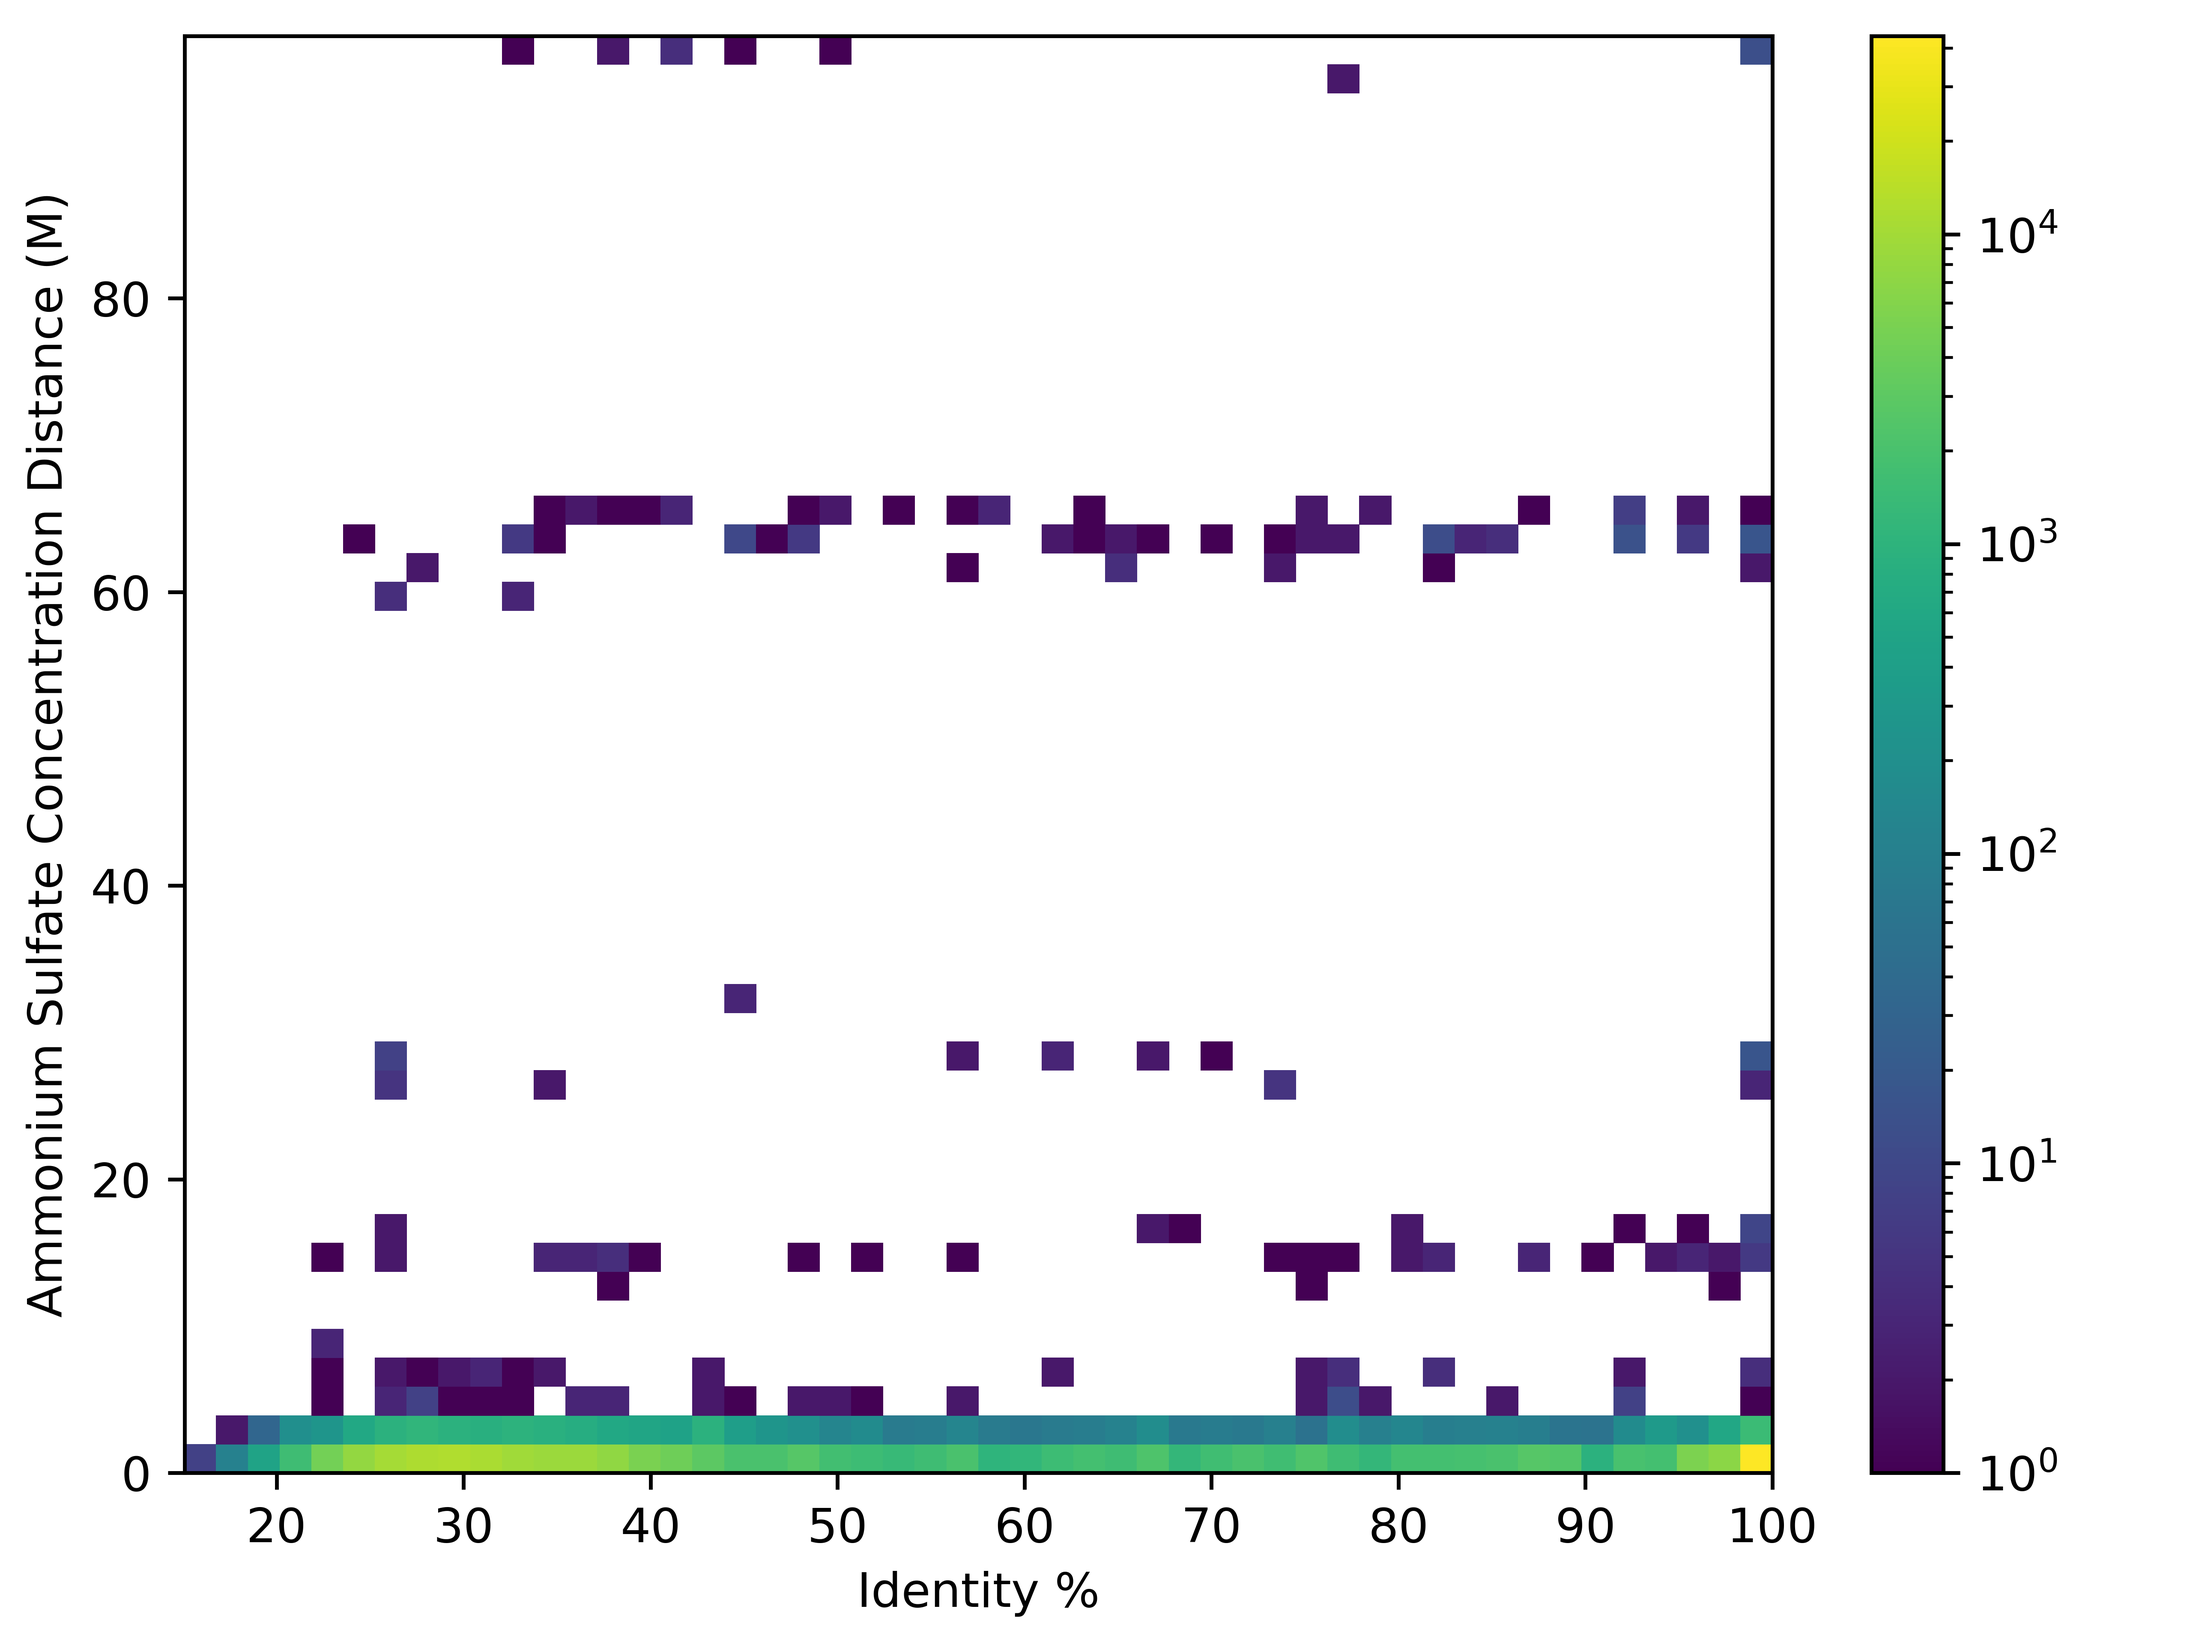
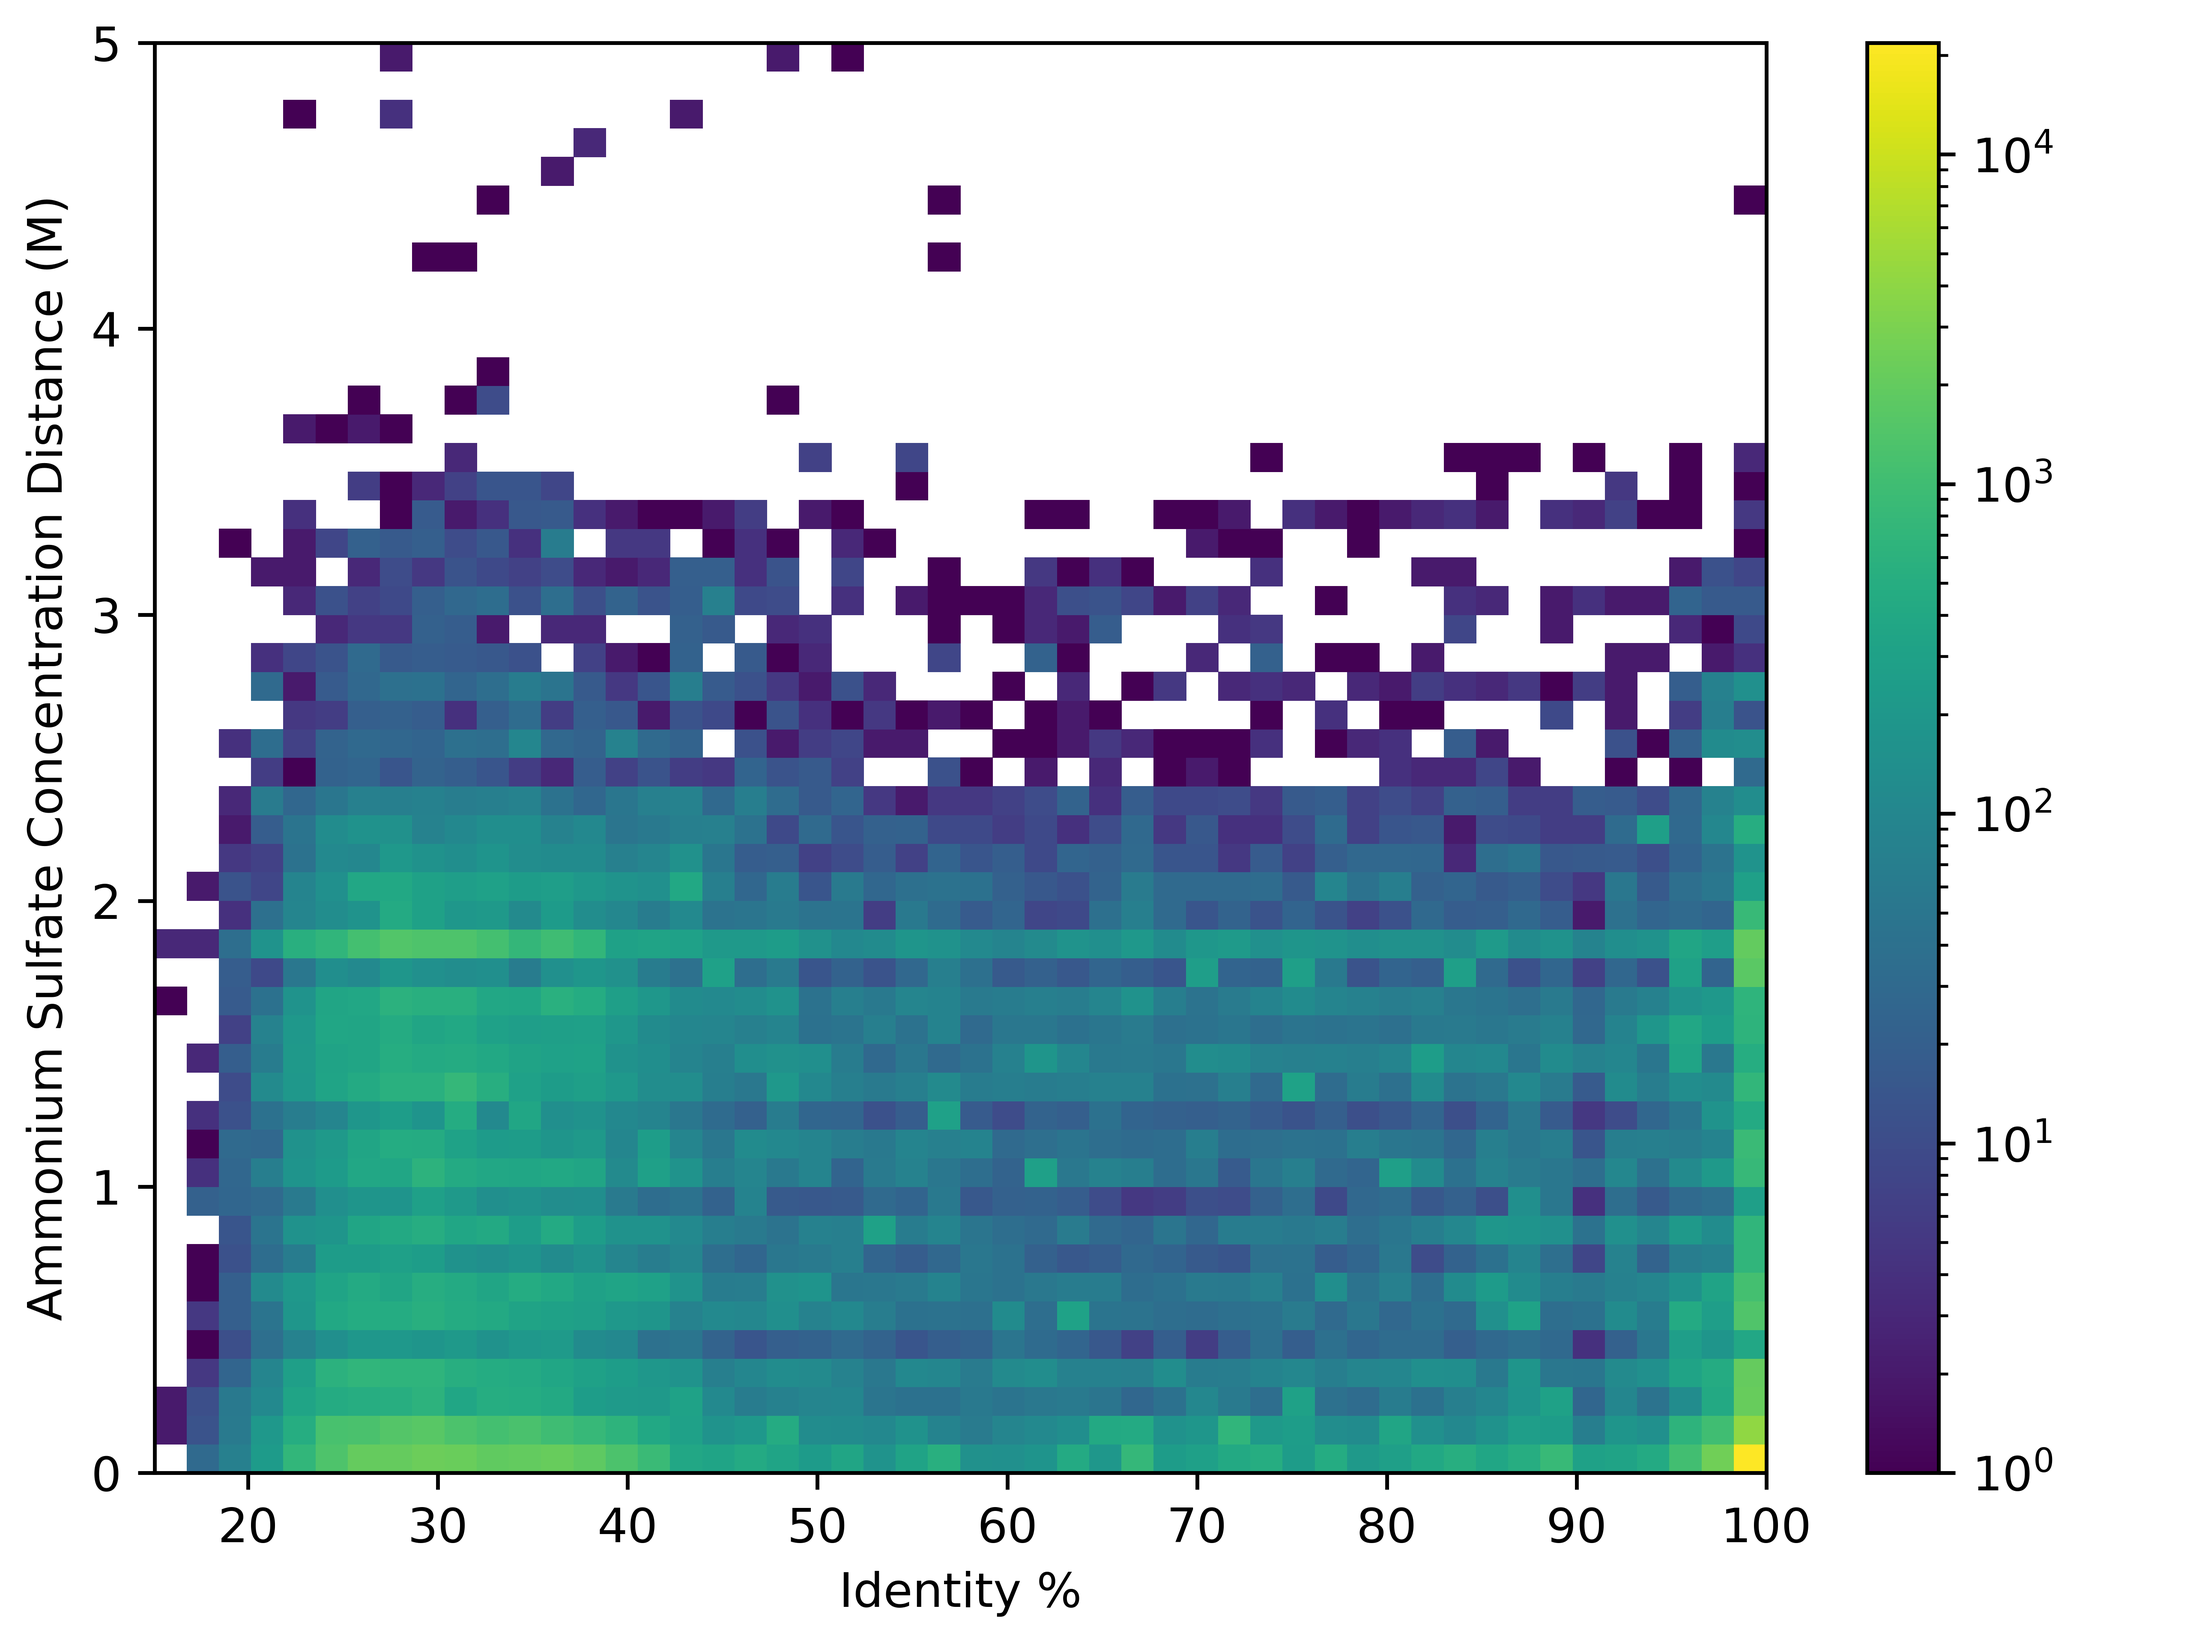
More stuff

diff --git a/plots.py b/plots.py
@@ -6,8 +6,11 @@ C6results = np.load("db/c6_results.npy")
 PEGresults = np.load("db/peg_results.npy")
 NH4results = np.load("db/nh4_results.npy")
 
-C6filter = np.where((C6results[:,0] != -1) & (C6results[:,0] <= 1))
-plt.hist2d(C6results[C6filter,1][0],C6results[C6filter,0][0],bins=50,norm=clr.LogNorm())
+print(len(np.where(C6results[:,0] > 1)[0]))
+
+filter = np.where((C6results[:,0] != -1) & (C6results[:,0] <= 1))[0]
+print(f"{len(C6results[:,0])-len(filter)}/{len(C6results[:,0])} results filtered from C6 hist")
+plt.hist2d(C6results[filter,1],C6results[filter,0],bins=50,norm=clr.LogNorm())
 plt.colorbar()
 plt.xlabel("Identity %")
 plt.ylabel("C6 Distance Metric")
@@ -15,9 +18,9 @@ plt.tight_layout(pad=0.5, w_pad=0.5, h_pad=0.1)
 plt.savefig("images/c6_hist2d",dpi=800,)
 
 plt.figure()
-
-C6filter = np.where((C6results[:,0] != -1) & (C6results[:,0] <= 1) & (C6results[:,1] > 90))
-plt.hist2d(C6results[C6filter,1][0],C6results[C6filter,0][0],bins=50,norm=clr.LogNorm())
+"""
+filter = np.where((C6results[:,0] != -1) & (C6results[:,0] <= 1) & (C6results[:,1] > 90))
+plt.hist2d(C6results[filter,1][0],C6results[filter,0][0],bins=50,norm=clr.LogNorm())
 plt.colorbar()
 plt.xlabel("Identity %")
 plt.ylabel("C6 Distance Metric")
@@ -25,8 +28,11 @@ plt.tight_layout(pad=0.5, w_pad=0.5, h_pad=0.1)
 plt.savefig("images/c6_hist2d_zoom",dpi=800,)
 
 plt.figure()
+"""
 
-plt.hist2d(PEGresults[:,1],PEGresults[:,0], bins=50,norm=clr.LogNorm())
+filter = np.where(PEGresults[:,0] <= 100)[0]
+print(f"{len(PEGresults[:,0])-len(filter)}/{len(PEGresults[:,0])} results filtered from PEG hist")
+plt.hist2d(PEGresults[filter,1],PEGresults[filter,0], bins=50,norm=clr.LogNorm())
 plt.colorbar()
 plt.xlabel("Identity %")
 plt.ylabel("PEGEq Concentration Distance (W/V)")
@@ -35,6 +41,7 @@ plt.savefig("images/pegeq_hist2d",dpi=800)
 
 plt.figure()
 
+"""
 filter = np.where(PEGresults[:,1] > 90)[0]
 plt.hist2d(PEGresults[filter,1],PEGresults[filter,0], bins=50,norm=clr.LogNorm())
 plt.colorbar()
@@ -44,14 +51,18 @@ plt.tight_layout(pad=0.5, w_pad=0.5, h_pad=0.1)
 plt.savefig("images/pegeq_hist2d_zoom",dpi=800)
 
 plt.figure()
+"""
 
-plt.hist2d(NH4results[:,1],NH4results[:,0], bins=50,norm=clr.LogNorm())
+filter = np.where(NH4results[:,0] <= 5)[0]
+print(f"{len(NH4results[:,0])-len(filter)}/{len(NH4results[:,0])} results filtered from ammonium sulfate hist")
+plt.hist2d(NH4results[filter,1],NH4results[filter,0], bins=50,norm=clr.LogNorm())
 plt.colorbar()
 plt.xlabel("Identity %")
 plt.ylabel("Ammonium Sulfate Concentration Distance (M)")
 plt.tight_layout(pad=0.5, w_pad=0.5, h_pad=0.1)
 plt.savefig("images/nh4_hist2d",dpi=800)
 
+"""
 plt.figure()
 
 filter = np.where(NH4results[:,1] > 90)[0]
@@ -61,5 +72,6 @@ plt.xlabel("Identity %")
 plt.ylabel("Ammonium Sulfate Concentration Distance (M)")
 plt.tight_layout(pad=0.5, w_pad=0.5, h_pad=0.1)
 plt.savefig("images/nh4_hist2d_zoom",dpi=800)
+"""
 
 plt.show()

diff --git a/pegeq.py b/pegeq.py
@@ -29,19 +29,25 @@ def main():
     means = []
     for i,weight in enumerate(np.unique(PEGdata[:,1])):
         concs = np.transpose(PEGdata[np.where(PEGdata[:,1]==weight),0])
-        std = np.std(concs)
-        mean = np.mean(concs)
+        if len(concs) > 10:
+            std = np.std(concs)
+            mean = np.mean(concs)
 
-        means.append((weight, mean, std, len(concs)))
-        print("Mol Weight = %8d\tConc: Mean = %f\tSTD = %f\tCount = %d"%(weight, mean, std, len(concs)))
+            means.append((weight, mean, std, len(concs)))
+            print("Mol Weight = %8d\tConc: Mean = %f\tSTD = %f\tCount = %d"%(weight, mean, std, len(concs)))
 
     means = np.asarray(means)
 
-    slope, intercept, r_value, p_value, std_err = stats.linregress(np.log(PEGdata[:,1]), PEGdata[:,0])
+    slope1, intercept1, r_value1, p_value1, std_err1 = stats.linregress(np.log(PEGdata[:,1]), PEGdata[:,0])
+    slope2, intercept2, r_value2, p_value2, std_err2 = stats.linregress(np.log(means[:,0]), means[:,1])
+    
+    # plt.text(6000, 38, f"y = {slope1:.3f}x+{intercept1:.3f}\n$r^2$ = {r_value1**2:.3f}\np = {p_value1:.3f}\nstd_err={std_err1:.3f}"\
+    #         f"\ny = {slope2:.3f}x+{intercept2:.3f}\n$r^2$ = {r_value2**2:.3f}\np = {p_value2:.3f}\nstd_err={std_err2:.3f}",bbox=dict(facecolor='none', edgecolor='black',pad=10))
+    print(f"r2 for fit through all points: {r_value1**2:.3f}")
+    print(f"r2 for fit through means: {r_value2**2:.3f}")
+    # plt.text(3500, 38, f"Fit through mean values:\ny = {slope2:.3f}x+{intercept2:.3f}\n$r^2$ = {r_value2**2:.3f}\np = {p_value2:.3f}\nstd_err={std_err2:.3f}",bbox=dict(facecolor='none', edgecolor='black',pad=10))
 
-    plt.text(6000, 38, f"y = {slope:.3f}x+{intercept:.3f}\n$r^2$ = {r_value**2:.3f}\np = {p_value:.3f}\nstd_err={std_err:.3f}",bbox=dict(facecolor='none', edgecolor='black',pad=10))
-
-    pickle.dump(slope, open("db/pegeq.pkl","wb"))
+    pickle.dump(slope2, open("db/pegeq.pkl","wb"))
 
     plt.scatter(means[:,0], means[:,1], color="r", zorder=1)
     max_count = np.max(means[:,3])
@@ -54,7 +60,7 @@ def main():
     ticks = np.array(np.sort(np.unique(PEGdata[:,1])),dtype=int)
     plt.xticks(ticks[::2],ticks[::2], rotation=45)
 
-    plt.plot(np.arange(np.min(means[:,0]), np.max(means[:,0]), 1), slope*np.log(np.arange(np.min(means[:,0]), np.max(means[:,0]), 1))+intercept)
+    plt.plot(np.arange(np.min(means[:,0]), np.max(means[:,0]), 1), slope2*np.log(np.arange(np.min(means[:,0]), np.max(means[:,0]), 1))+intercept2)
     plt.tight_layout(pad=0.1, w_pad=0.01, h_pad=0.5)
     plt.savefig("images/pegeq",dpi=800)
     plt.figure()
